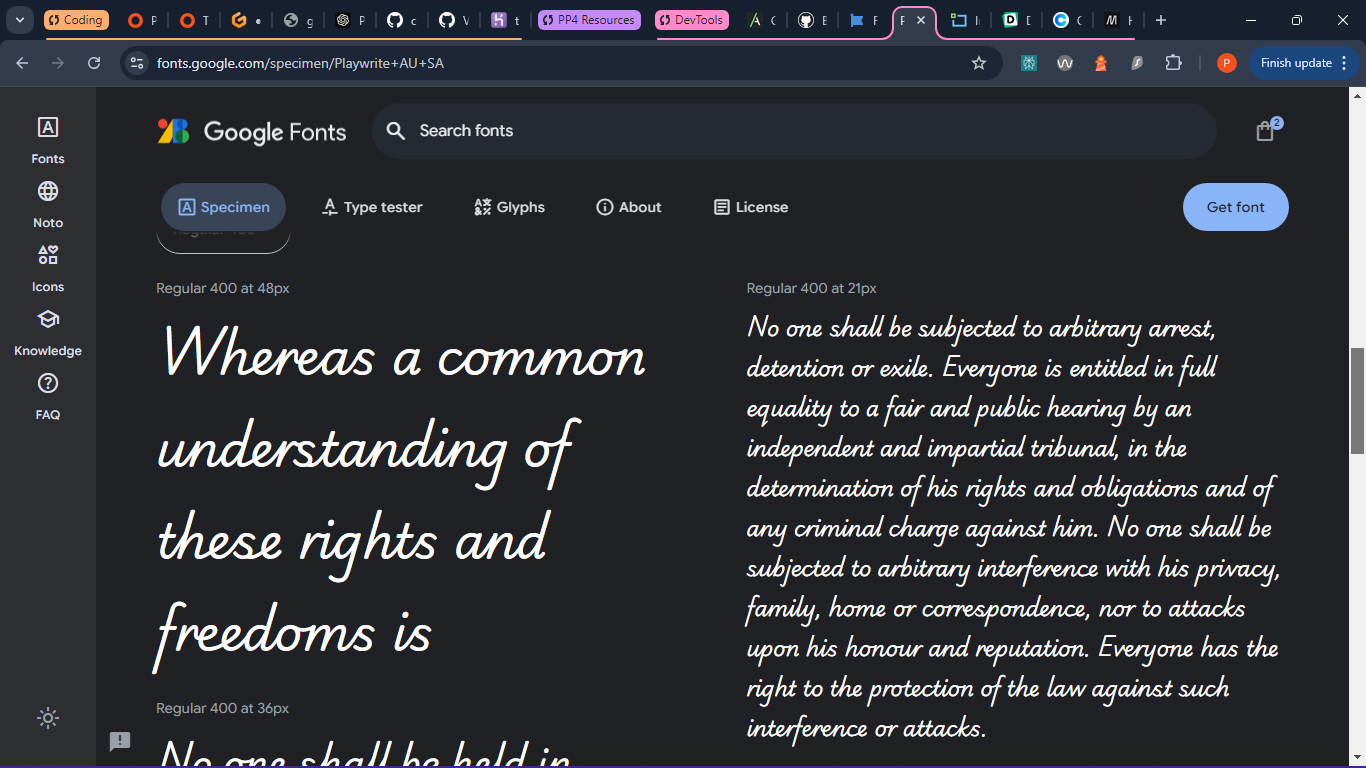
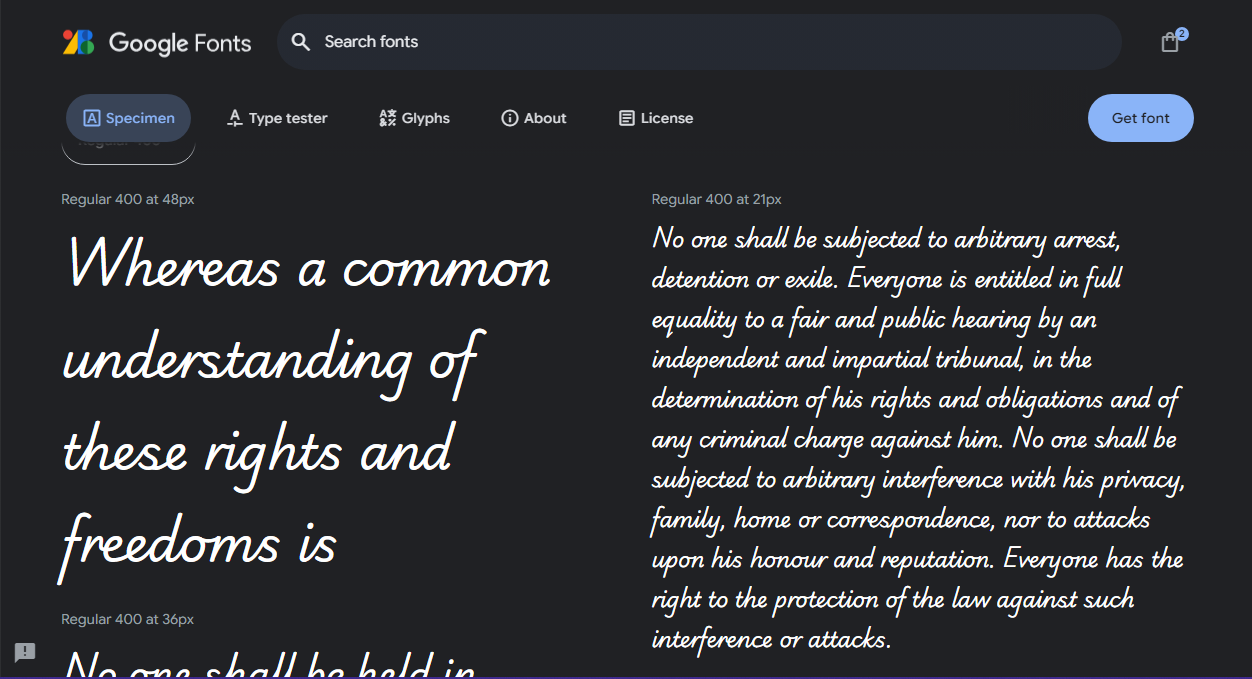
Document the typography and design

diff --git a/README.md b/README.md
@@ -7,6 +7,8 @@ Time[less] Travel is a travel blog/website designed to help travelers achieve th
 1. **[Project Goals](#project-goals)**
 2. **[Target Audience](#target-audience)**
 3. **[Design](#design)**
+    * [Typography](#typography)
+    * [Color Scheme](#color-scheme)
 4. **[Features](#features)**
     * [Existing Features](#existing-features)
         + [Checklists and Tasks](#checklists-and-tasks)
@@ -28,6 +30,25 @@ Time[less] Travel is a travel blog/website designed to help travelers achieve th
 # Project Goals
 # Target Audience
 # Design
+
+## Typography
+
+I used Google Fonts for typography. My choice of fonts was **Playwrite AU SA** for main headings and titles:
+
+![Playwrite AU SA font](static/images/README/playwrite-au-sa-font.png)
+
+For the rest of the webpage, I used **Work Sans** font:
+
+![Work Sans](static/images/README/work-sans-font.png)
+
+## Color Scheme
+
+I went with a pretty rich color scheme, specifically I used strong colors for the CRUD buttons, because they emphasize the effect these actions can have on a user's data.
+
+The pastel colors are used for the navbar and the direction buttons, since there are many colorful photos and the main focus should be on these photos rather than on the colors, hence the pastel colors complement the photos in an elegant way.
+
+![Color scheme](static/images/README/color-scheme.png)
+
 # Features
 
 ## Existing Features
